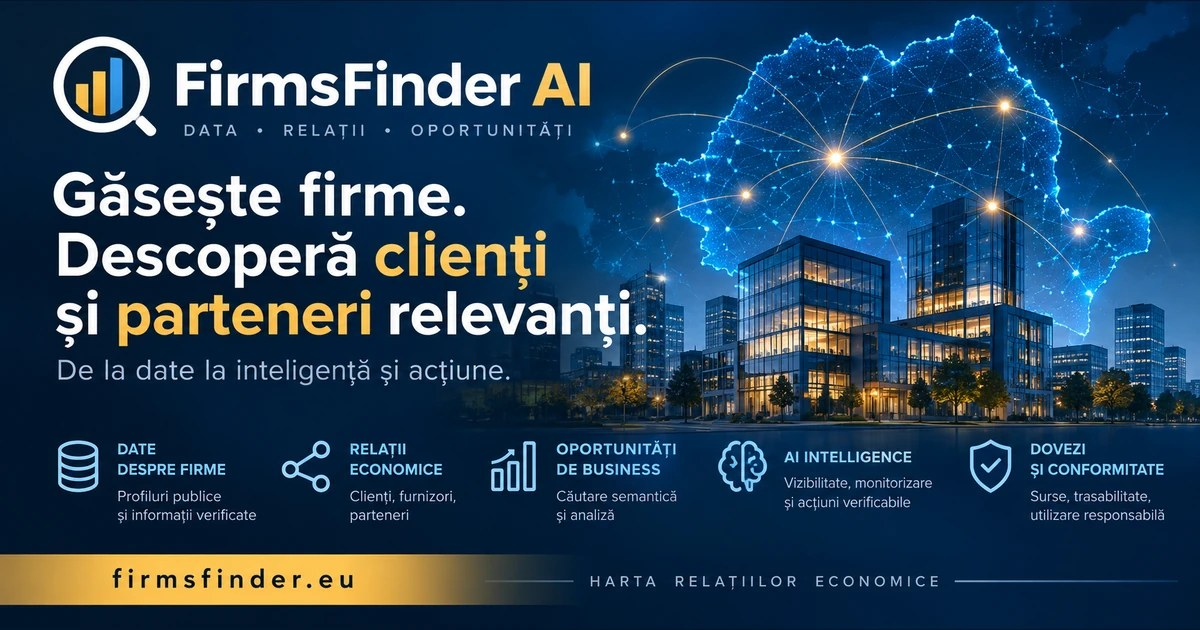
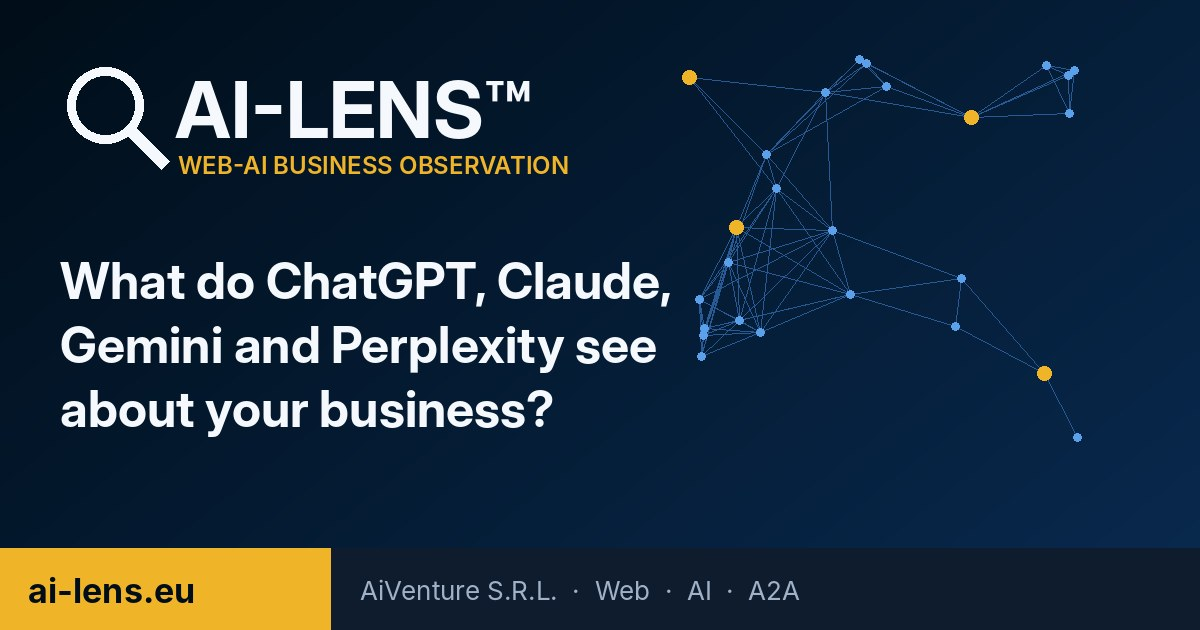
Imagine Open Graph proprie AI-LENS (in locul celei FirmsFinder) + text alternativ (#2)
Generata cu tools/og_image.py din aiventure-autopilot, in stilul retelei (navy + auriu).

Claude-Session: https://claude.ai/code/session_013SzVN3kcBFK5tjjGnMZ7KZ

diff --git a/index.html b/index.html
@@ -23,14 +23,14 @@
 <meta property="og:locale" content="en_US">
 <meta property="og:image" content="https://ai-lens.eu/assets/og-image.jpg">
 <meta property="og:image:type" content="image/jpeg">
-<meta property="og:image:alt" content="FirmsFinder AI — date, relații economice și oportunități">
+<meta property="og:image:alt" content="AI-LENS — what ChatGPT, Claude, Gemini and Perplexity see about your business">
 <meta property="og:image:width" content="1200">
 <meta property="og:image:height" content="630">
 <meta name="twitter:card" content="summary_large_image">
 <meta name="twitter:title" content="AI-LENS™ — Web-AI Business Observation">
 <meta name="twitter:description" content="AI-LENS shows what ChatGPT, Claude, Gemini and Perplexity each understand about your business, reading the same pages independently, then merges the four views.">
 <meta name="twitter:image" content="https://ai-lens.eu/assets/og-image.jpg">
-<meta name="twitter:image:alt" content="FirmsFinder AI — date, relații economice și oportunități">
+<meta name="twitter:image:alt" content="AI-LENS — what ChatGPT, Claude, Gemini and Perplexity see about your business">
 <meta name="twitter:site" content="@aipath512">
 <meta name="author" content="AiVenture S.R.L.">
 <meta name="referrer" content="strict-origin-when-cross-origin">
